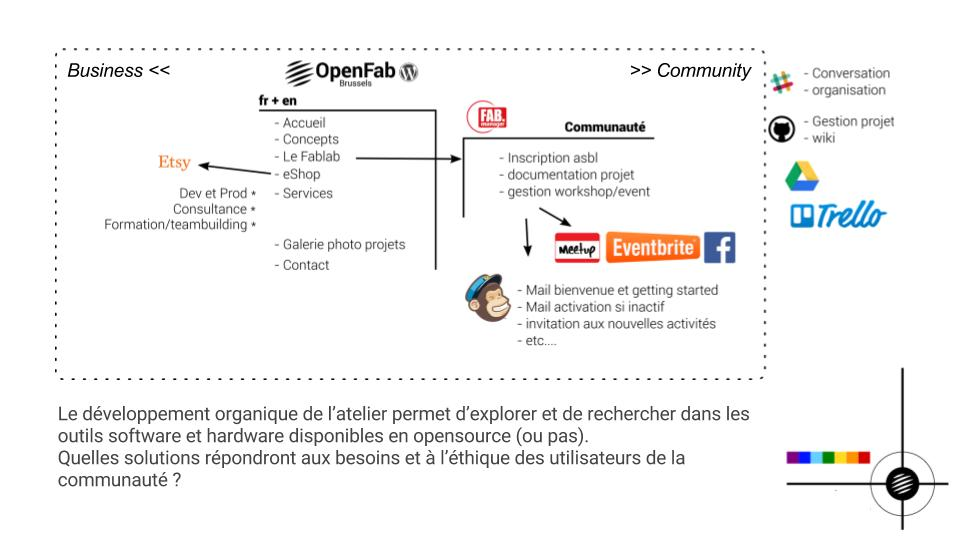
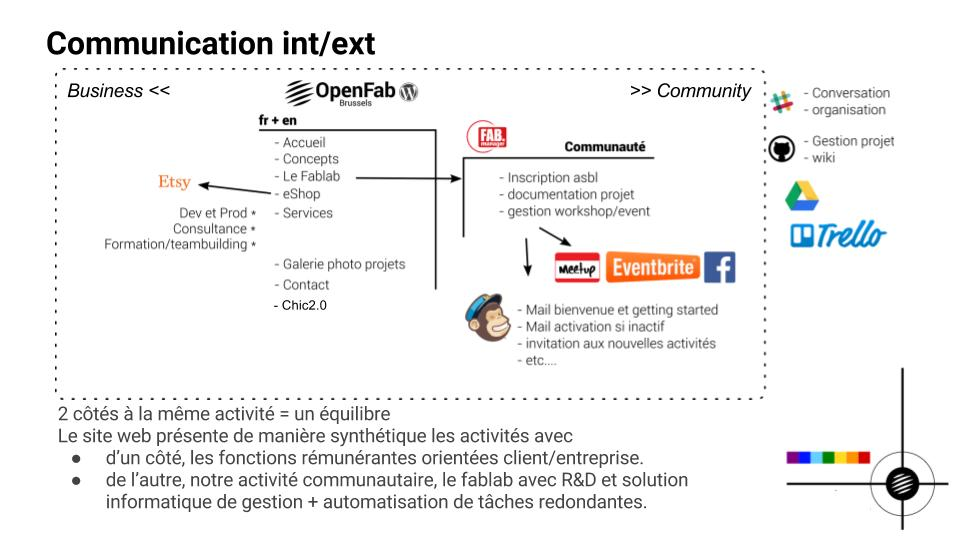
update intro openfab
ajout des grandes lignes

Changed region(s): [[0.0312, 0.0593, 0.7812, 0.6815], [0.0625, 0.7407, 0.7812, 0.9481], [0.6562, 0.1185, 0.9375, 0.4741]]

diff --git a/README.md b/README.md
@@ -1,4 +1,37 @@
-# openfab
-project management d'open fab
+# Github Openfab
+La page de R/D et documentation d'Openfab
 
-## team
+En ce début 2017, beaucoup de choses évoluent.
+Actuellement, j'ai fait une liste des grands sujets et tâches en cours dont je m'occupe et j'aimerai arriver à réunir des teams avec ceux qui peuvent m'aider sur un sujet précis.
+
+* **Gala OF, présentation Openfab** #community   
+    Pour le 10 fev donc,  
+* **Aménagement local** #community   
+    Fabrication d'une [table pour la découpeuse laser](https://github.com/openfab-lab/LasersaurBench) et réaménagement global du local. Faut réorganiser les stocks, la circulation, fabriquer quelques meubles qui manquent, etc...
+* **Structure et administration Asbl** #community  
+    ça suivra la présentation avec l'aide du nouveau CA mais en attendant faut encore éviter de faire des bétises.
+* **Gamification, level Up** #community  
+    Stratégie d'évolution des membres dans Openfab. Faut continuer de [structurer](https://github.com/openfab-lab/openfab/blob/master/Levelup.md) et ["codifier" les règles du jeu](https://github.com/openfab-lab/openfab/blob/master/RTFM.OF.md). Créer le contenu manquant et tester. ([passeport](https://github.com/openfab-lab/passeportMaker) et badges par exemple)
+* **Aventutoriaux** #community  
+    Création de livres dont tu es le héro mais dédié au fablab. Sert de support pour ceux qui veulent faire mais qui n'ont pas de projet clair à faire (trop de choix, tue le choix). Un storytelling qui guide l'utilisateur au travers de tutoriels qui couvrent les techniques disponibles au fablab.  Le logiciel opensource Twine aidera à l'écriture du contenu non linéaire.   https://twinery.org/  
+    exemple: http://www.louisrakovich.com/files/theme/afiredarklyi.html
+* **Chic2.0** #services  
+    Prochain workshop le 28,29,30 Mars puis un second fin Mai. Organisation, préparation et suivit sont à faire. J'aimerai faire participer les différentes personnes ayant participé ou qui vont participer, pour de l'aide mais aussi dans un soucis de continuité durant l'ensemble des workshops.  
+    Il faut aussi documenter les workshops de BCN et StDenis de 2016, partager les fichiers sources  
+* **Nouveau site web, [nouvelle architecture WP3](https://github.com/openfab-lab/openfab/blob/master/img/Architecture%20web%20OF.jpg) et lien avec miniSite github** #community  
+    La com qui met en lien les différents sujets et qui va faire le support entre eux. (mini.site Chic, mini.site Aventutoriaux, mini.site projets, etc...  
+    J'ébauche juste la compréhension de structure des pages dans github sur [mon compte perso](https://nicolasdb.github.io/)
+* **CQD artisan2.0** #services  
+    C'est l'appel à projet remporté l'été dernier. On vient de recevoir les sous. l'objectif est d'organiser 2 bricole&picole (intro, outro) et 10 j de stage répartis comme on veut d'ici fin 2017. La thématique est de montrer ce qu'apporte les démarches numériques associée à l'artisanat traditionnel.
+* **Fabcity** #community  
+    Développement du réseau BXL de maker, vision macro locale et [Fabcity Vault](https://medium.com/@yannickschanden/fab-city-vault-from-mutualisation-of-resources-to-sharing-the-outcome-5d6ae0a5b5b6#.t7vv3lmuz).
+* **Les jobs, Quentin, stoemelings, refresh, poolpio,** #services  
+    Tout ce bazar amène quand même quelques commandes et des jobs à réaliser. $$
+* **Valorisation des projets** #services  
+    Comment valoriser ces réalisations, ces jobs pour en attirer d'autres. Nouveaux projets, nouvelles commandes, des sous pour la popoche. + de $$
+* **Accueil des gens au lab** #community  
+    Et bien sur, il y a tjs des nouveaux qui arrivent. Faut les accueillir et arriver à les embarquer dans le jeu.
+* **Documentation des projets, des processus** #community  
+Et pour commencer, baliser et documenter les processus de documentation
+
+C'est déjà pas mal. Quand je pense qu'il y a des gens qui s'ennuie....
